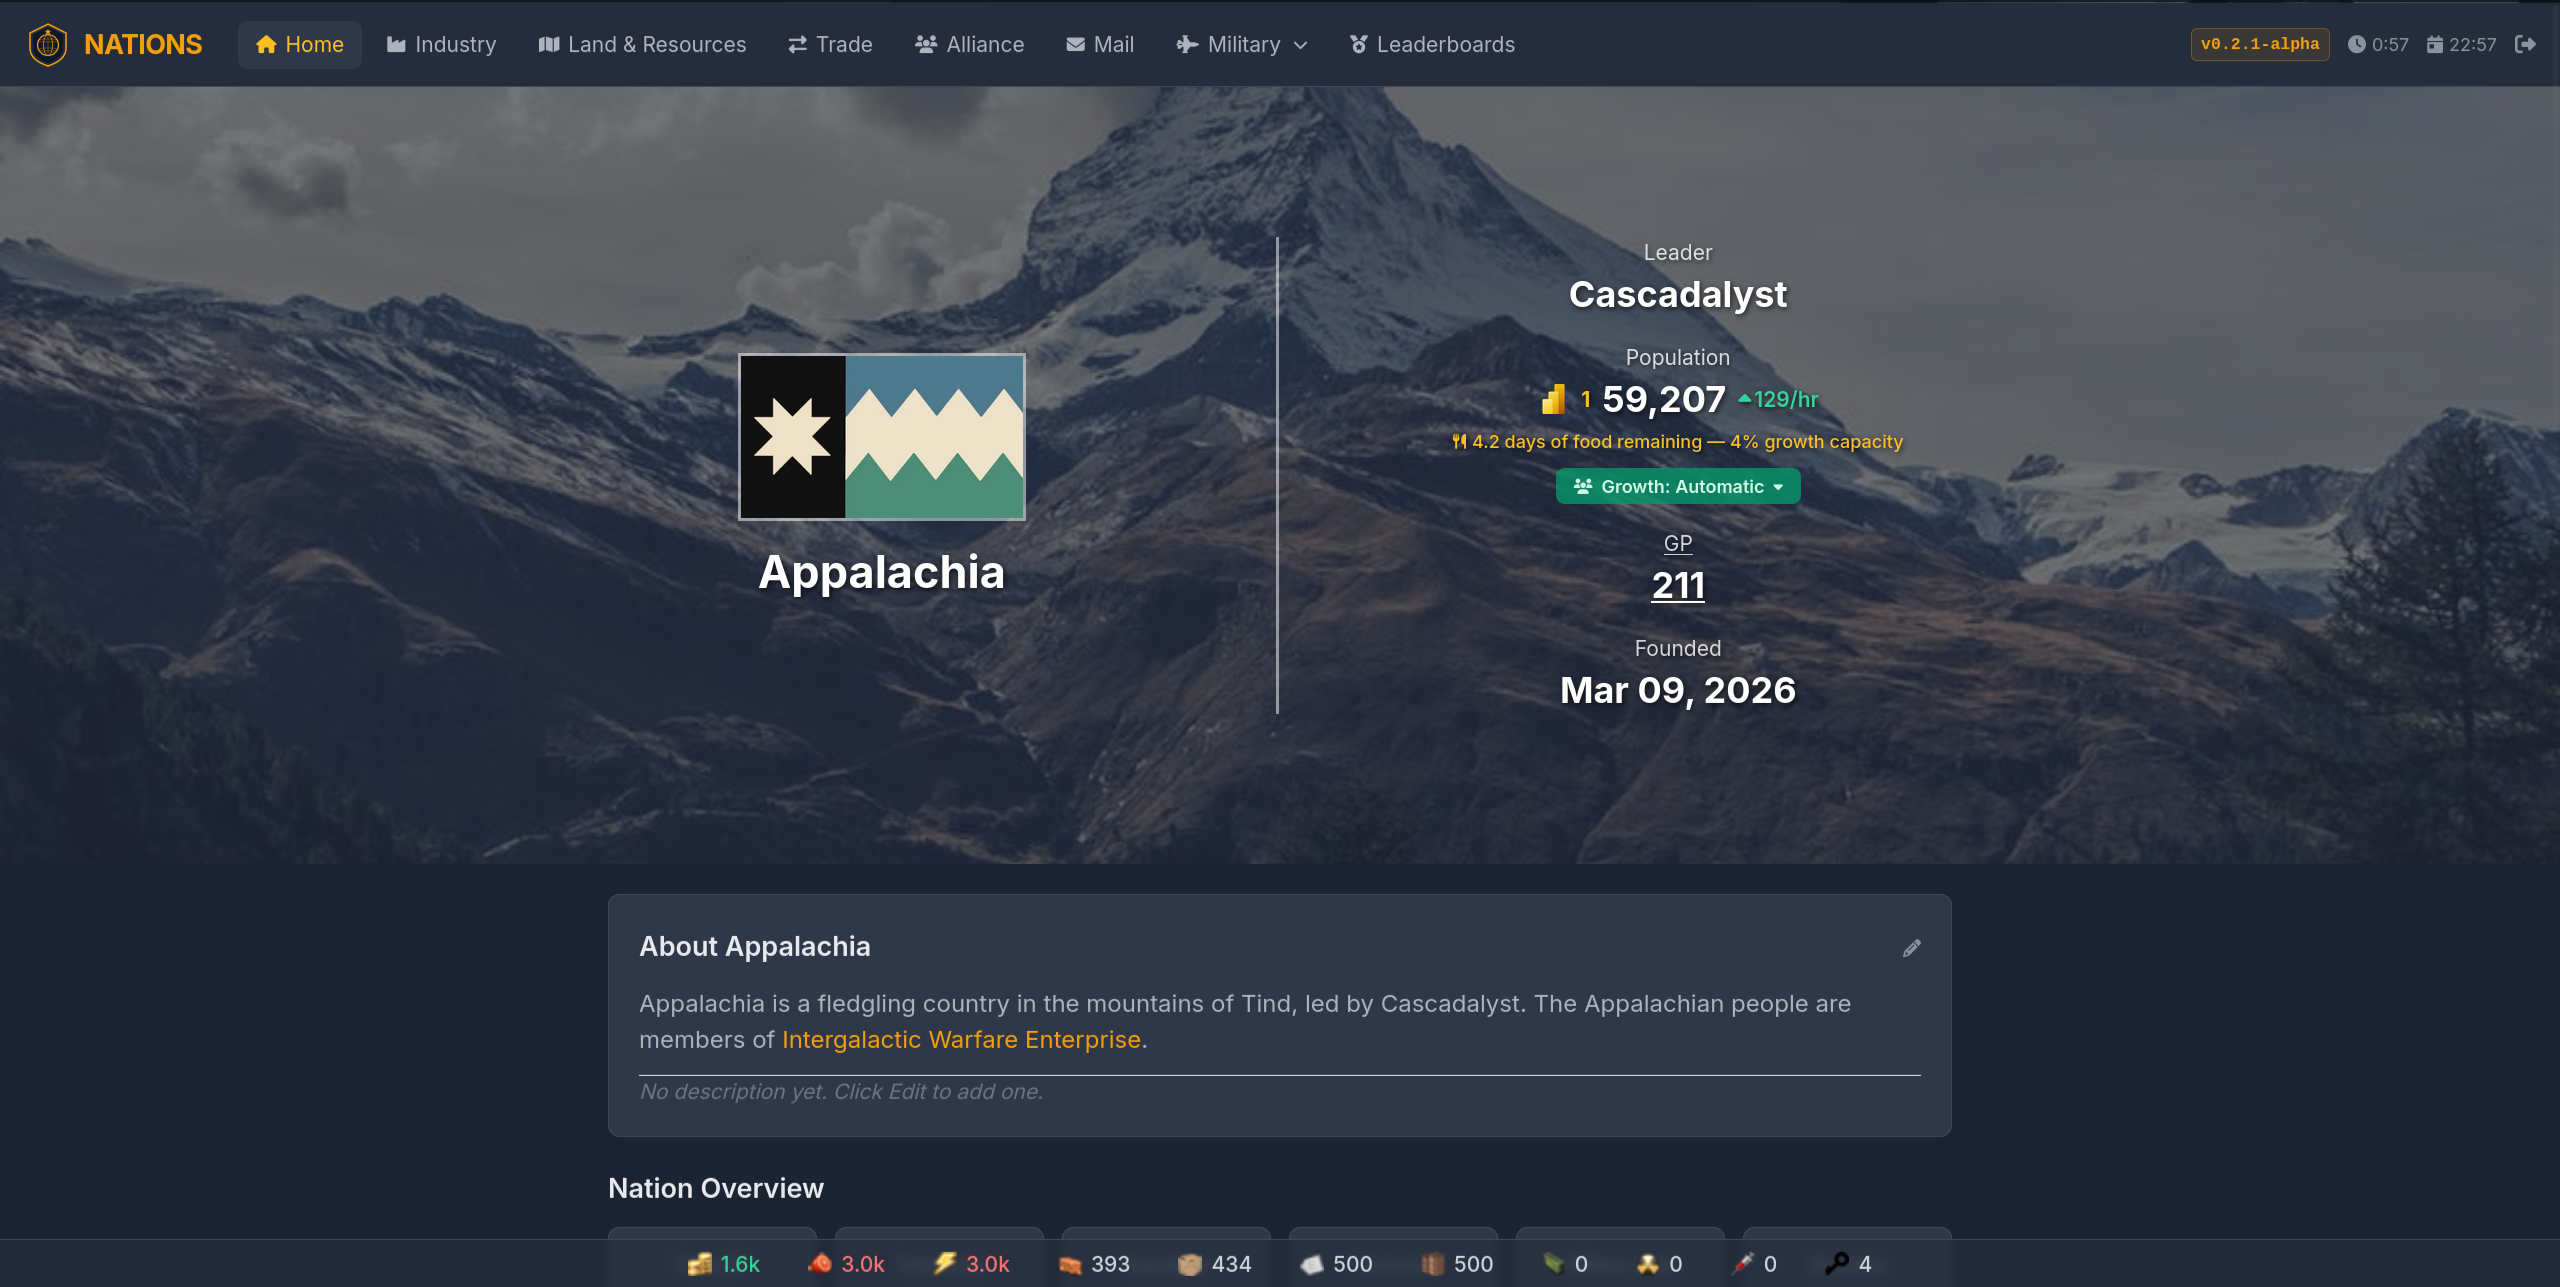
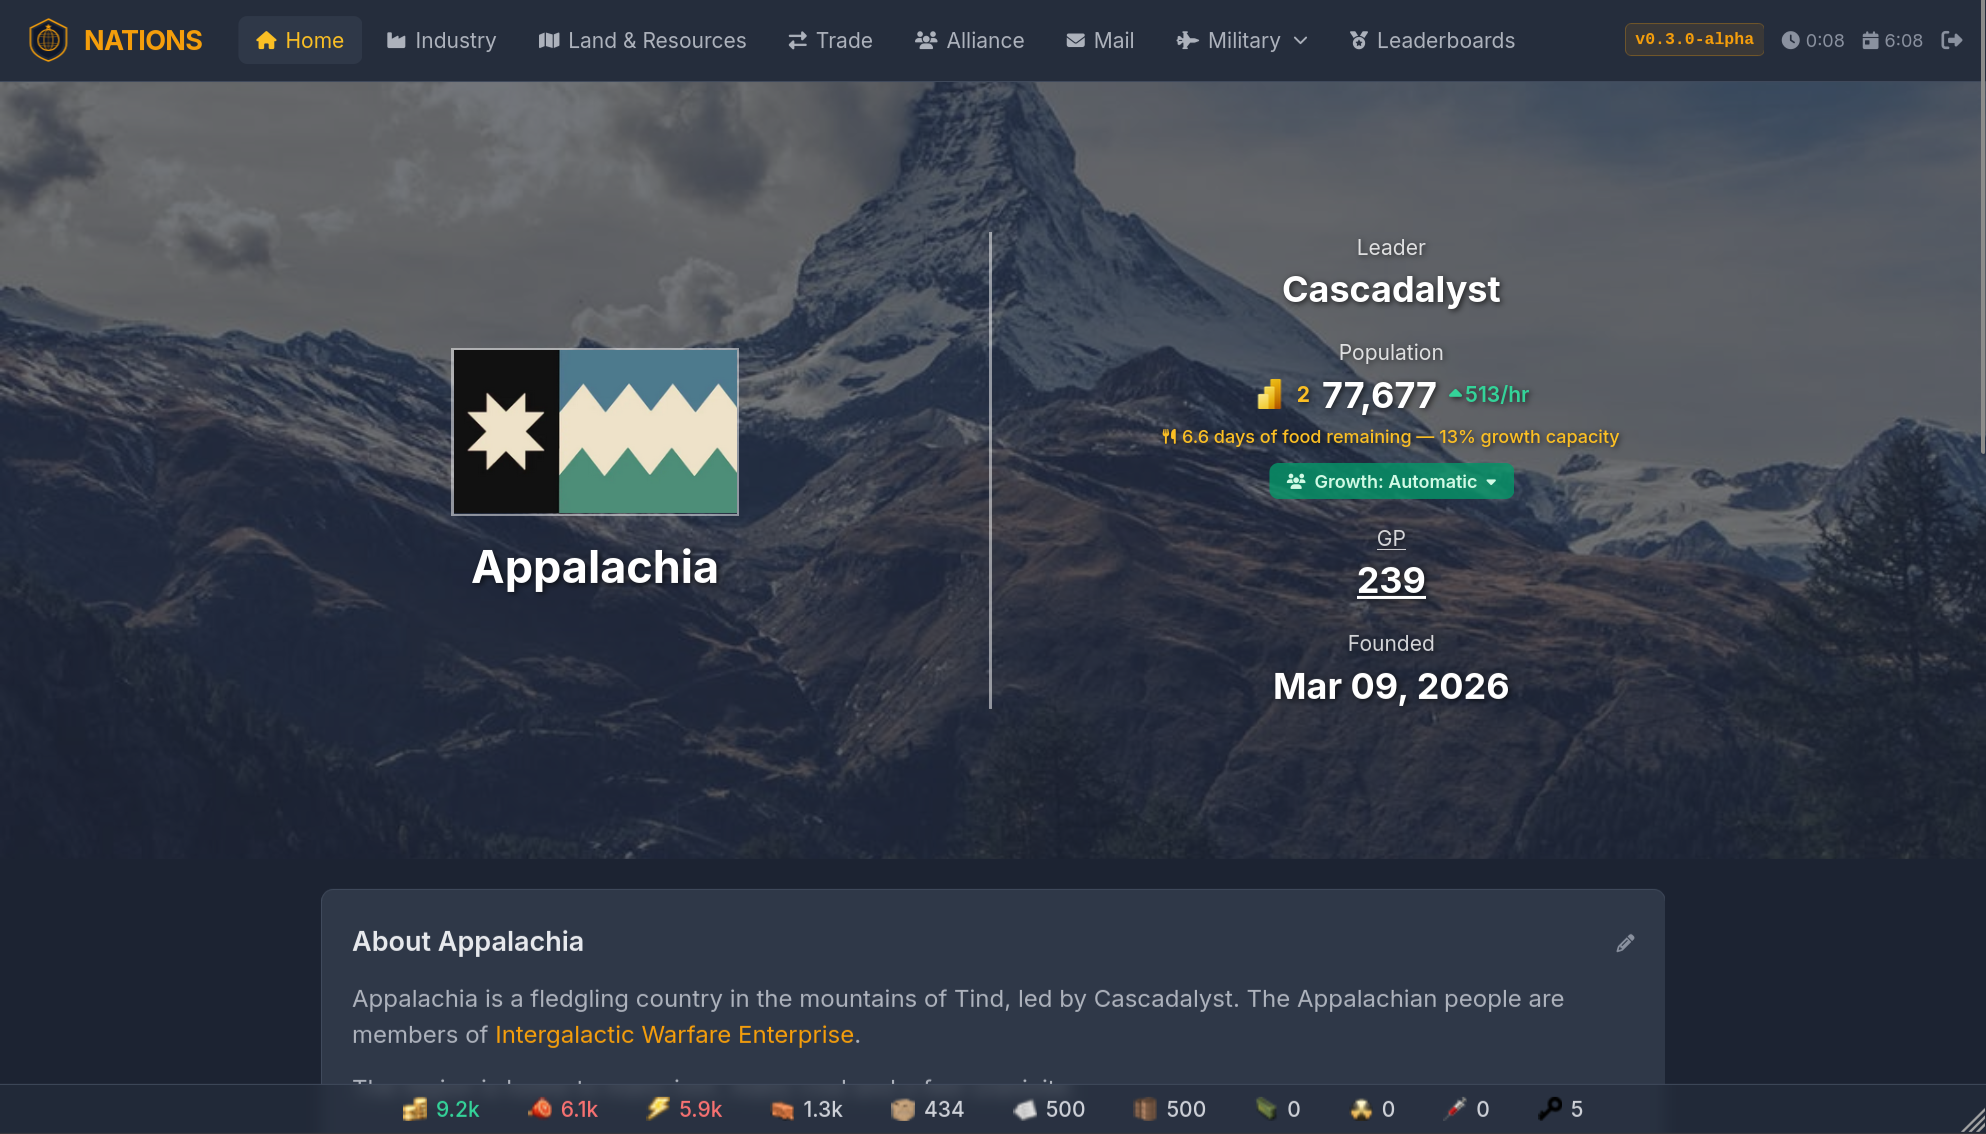
scheduler hardening

diff --git a/app/templates/auth/register.html b/app/templates/auth/register.html
@@ -112,7 +112,7 @@
 
             {# Continent picker #}
             <fieldset class="mb-6">
-                <legend class="block text-sm font-medium text-slate-300 mb-3 text-center">Choose a Homeland</legend>
+                <legend class="block text-sm font-medium text-slate-300 mb-3 text-center">Choose a Continent for Your Homeland</legend>
                 <div class="grid grid-cols-1 md:grid-cols-3 lg:grid-cols-5 gap-3">
 
                     <div @click="continent = 'Westberg'"
@@ -131,7 +131,7 @@
                             <span class="bg-slate-600/50 text-slate-300 px-1.5 py-0.5 rounded">Petroleum</span>
                             <span class="bg-slate-600/50 text-slate-300 px-1.5 py-0.5 rounded">Silver</span>
                         </div>
-                        <div class="text-xs text-amber-400 mt-2">Balanced &amp; Industrial</div>
+                        <div class="text-xs text-amber-400 mt-2">Balanced &amp; Self-Sufficient</div>
                     </div>
 
                     <div @click="continent = 'Amarino'"
@@ -145,12 +145,12 @@
                         </div>
                         <p class="text-slate-400 text-xs mb-2">Dense jungles teeming with exotic resources.</p>
                         <div class="flex flex-wrap gap-1 text-xs">
-                            <span class="bg-slate-600/50 text-slate-300 px-1.5 py-0.5 rounded">Uranium</span>
                             <span class="bg-slate-600/50 text-slate-300 px-1.5 py-0.5 rounded">Cocoa</span>
                             <span class="bg-slate-600/50 text-slate-300 px-1.5 py-0.5 rounded">Rubber</span>
                             <span class="bg-slate-600/50 text-slate-300 px-1.5 py-0.5 rounded">Cattle</span>
+                            <span class="bg-slate-600/50 text-slate-300 px-1.5 py-0.5 rounded">Uranium</span>
                         </div>
-                        <div class="text-xs text-amber-400 mt-2">Exotic &amp; Nuclear</div>
+                        <div class="text-xs text-amber-400 mt-2">Exotic Trades &amp; Consumer Goods</div>
                     </div>
 
                     <div @click="continent = 'San Sebastian'"
@@ -169,7 +169,7 @@
                             <span class="bg-slate-600/50 text-slate-300 px-1.5 py-0.5 rounded">Lead</span>
                             <span class="bg-slate-600/50 text-slate-300 px-1.5 py-0.5 rounded">Sheep</span>
                         </div>
-                        <div class="text-xs text-amber-400 mt-2">Versatile &amp; Trade</div>
+                        <div class="text-xs text-amber-400 mt-2">Versatile &amp; Adaptable</div>
                     </div>
 
                     <div @click="continent = 'Tind'"
@@ -186,9 +186,9 @@
                             <span class="bg-slate-600/50 text-slate-300 px-1.5 py-0.5 rounded">Iron</span>
                             <span class="bg-slate-600/50 text-slate-300 px-1.5 py-0.5 rounded">Coal</span>
                             <span class="bg-slate-600/50 text-slate-300 px-1.5 py-0.5 rounded">Platinum</span>
-                            <span class="bg-slate-600/50 text-slate-300 px-1.5 py-0.5 rounded">Uranium</span>
+                            <span class="bg-slate-600/50 text-slate-300 px-1.5 py-0.5 rounded">Hydro Power</span>
                         </div>
-                        <div class="text-xs text-amber-400 mt-2">Heavy Industry &amp; Military</div>
+                        <div class="text-xs text-amber-400 mt-2">Heavy Industry &amp; Defensible</div>
                     </div>
 
                     <div @click="continent = 'Zaheria'"

diff --git a/app/tasks.py b/app/tasks.py
@@ -1,6 +1,10 @@
+import threading
 from datetime import datetime, timezone
 from flask_apscheduler import APScheduler
+
 scheduler = APScheduler()
+_register_lock = threading.Lock()
+_registered = False
 
 
 def process_recruitment_queue():
@@ -416,33 +420,40 @@ def cleanup_pve_battles():
 
 
 def register_tasks(app):
-    # If scheduler is already initialized/running, don't re-register
-    if scheduler.app is not None or scheduler.running:
-        return
+    global _registered
+    with _register_lock:
+        if _registered:
+            return
+        _registered = True
 
     scheduler.init_app(app)
 
     # ── Hourly tick (factory capacity + nation simulation) ──
     scheduler.add_job(id='hourly_tick', func=process_hourly_tick,
-                      trigger='cron', minute=0)
+                      trigger='cron', minute=0, replace_existing=True)
 
     # ── Frequent tasks (keep as interval) ──
     scheduler.add_job(id='process_recruitment', func=process_recruitment_queue,
-                      trigger='interval', seconds=60)
+                      trigger='interval', seconds=60, replace_existing=True)
     scheduler.add_job(id='process_factory_build', func=process_factory_queue,
-                      trigger='interval', seconds=60)
+                      trigger='interval', seconds=60, replace_existing=True)
     scheduler.add_job(id='process_building_upgrades', func=process_building_upgrades,
-                      trigger='interval', seconds=60)
+                      trigger='interval', seconds=60, replace_existing=True)
     scheduler.add_job(id='process_war_deployments', func=process_war_deployments,
-                      trigger='interval', seconds=60)
+                      trigger='interval', seconds=60, replace_existing=True)
     scheduler.add_job(id='process_combat', func=process_combat_rounds,
-                      trigger='interval', seconds=10)
+                      trigger='interval', seconds=10, replace_existing=True,
+                      max_instances=1, coalesce=True)
 
     # ── Daily tasks (midnight UTC) ──
     scheduler.add_job(id='reset_daily', func=reset_daily_counters,
-                      trigger='cron', hour=0, minute=0)
+                      trigger='cron', hour=0, minute=0, replace_existing=True)
     scheduler.add_job(id='cleanup_pve', func=cleanup_pve_battles,
-                      trigger='cron', hour=0, minute=0)
+                      trigger='cron', hour=0, minute=0, replace_existing=True)
 
     if not scheduler.running:
-        scheduler.start()
+        try:
+            scheduler.start()
+        except Exception:
+            # Already started in another context
+            pass

diff --git a/tests/conftest.py b/tests/conftest.py
@@ -64,7 +64,7 @@ def client(app):
 @pytest.fixture()
 def nation(app):
     """Create a test user + nation and return the nation."""
-    u = User(username='tester', email='[email redacted]')
+    u = User(username='tester', email='[email redacted]', login_version=1)
     u.set_password('password')
     _db.session.add(u)
     _db.session.flush()
@@ -84,14 +84,14 @@ def nation(app):
 def auth_client(app, client, nation):
     """A test client already logged in as the test nation's user."""
     with client.session_transaction() as sess:
-        sess['_user_id'] = str(nation.user_id)
+        sess['_user_id'] = f"{nation.user_id}:1"
     return client
 
 
 @pytest.fixture()
 def admin_user(app):
     """Create an admin user + nation and return the user."""
-    u = User(username='admin', email='[email redacted]', is_admin=True)
+    u = User(username='admin', email='[email redacted]', is_admin=True, login_version=1)
     u.set_password('password')
     _db.session.add(u)
     _db.session.flush()
@@ -108,5 +108,5 @@ def admin_user(app):
 def admin_client(app, client, admin_user):
     """A test client logged in as an admin user."""
     with client.session_transaction() as sess:
-        sess['_user_id'] = str(admin_user.id)
+        sess['_user_id'] = f"{admin_user.id}:1"
     return client

diff --git a/run.py b/run.py
@@ -5,6 +5,12 @@ from app import create_app, db
 
 app = create_app(os.environ.get('FLASK_ENV', 'default'))
 
+# Start scheduler only in the actual serving process.
+# Werkzeug child (WERKZEUG_RUN_MAIN='true') in debug mode, or production (not debug).
+if os.environ.get('WERKZEUG_RUN_MAIN') == 'true' or (not app.debug and not app.testing):
+    from app.tasks import register_tasks
+    register_tasks(app)
+
 PARTITIONED_TABLES = [
     'natural_resources', 'nation_factories', 'divisions', 'units',
     'recruitment_queue', 'factory_build_queue', 'equipment',

diff --git a/app/__init__.py b/app/__init__.py
@@ -136,9 +136,4 @@ def create_app(config_name='default'):
     def internal_server_error(e):
         return render_template('errors/500.html'), 500
 
-    import os
-    if not app.debug or os.environ.get('WERKZEUG_RUN_MAIN') == 'true':
-        from .tasks import register_tasks
-        register_tasks(app)
-
     return app

diff --git a/app/war/routes.py b/app/war/routes.py
@@ -292,7 +292,7 @@ def deploy_attack(war_id):
         war_id=war_obj.id,
         deploying_nation_id=my_nation_id,
         division_id=div.id,
-        arrives_at=now + timedelta(hours=0),
+        arrives_at=now + timedelta(hours=24),
     )
     db.session.add(entry)
     db.session.commit()

diff --git a/tests/test_war.py b/tests/test_war.py
@@ -88,7 +88,7 @@ def _make_unit(nation_id, division_id, *, hp=50):
 
 class TestComputeWarScores:
     def _war(self, atk, dfn):
-        return SimpleNamespace(attacker_victories=atk, defender_victories=dfn)
+        return SimpleNamespace(id=1, attacker_victories=atk, defender_victories=dfn)
 
     def test_tied_at_zero(self):
         s = compute_war_scores(self._war(0, 0))

diff --git a/README.md b/README.md
@@ -3,8 +3,6 @@
 A browser-based nation-building simulator. Players manage resources, industry, land, and military across five continents.
 
 TODO:
-- Wars
-- Custom 500 page
 - Mobile readiness
 ___
 Start Beta Phase: